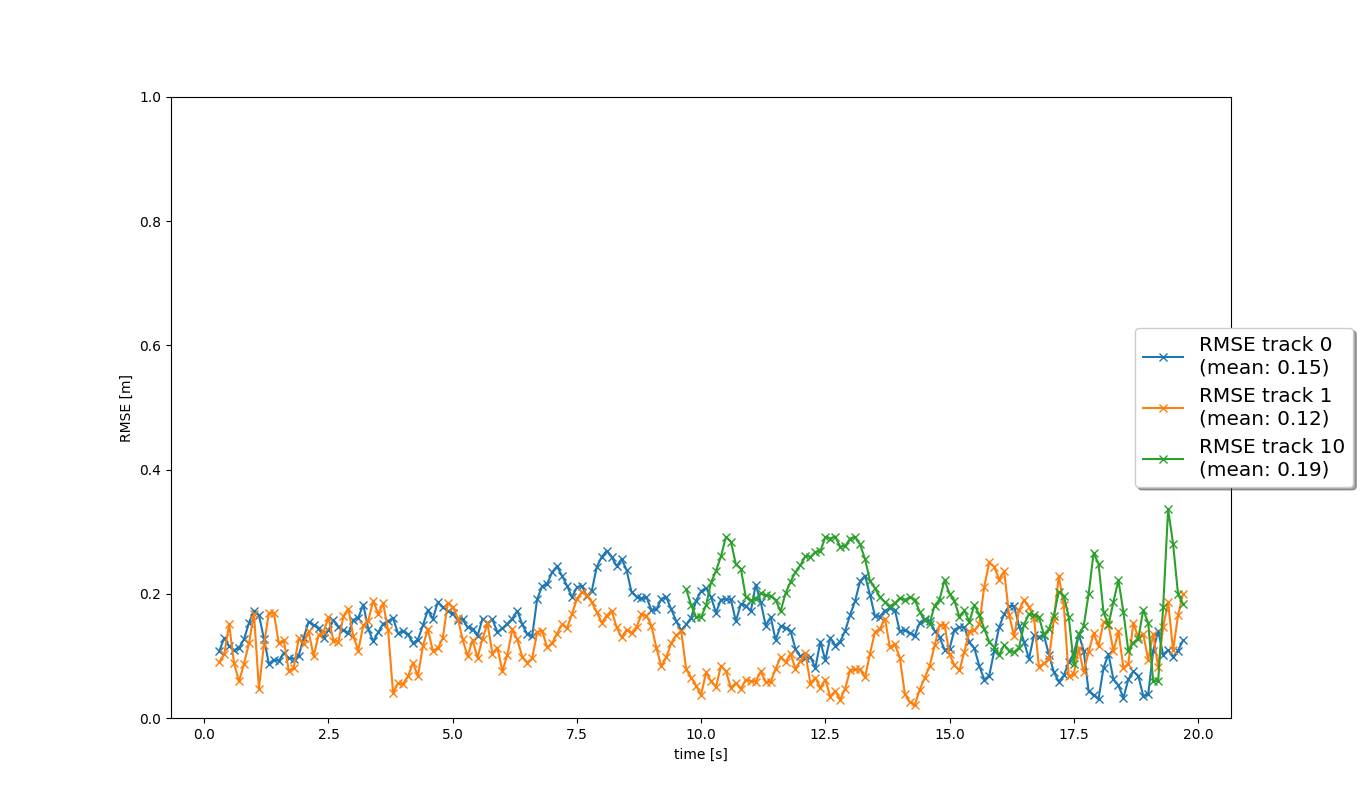
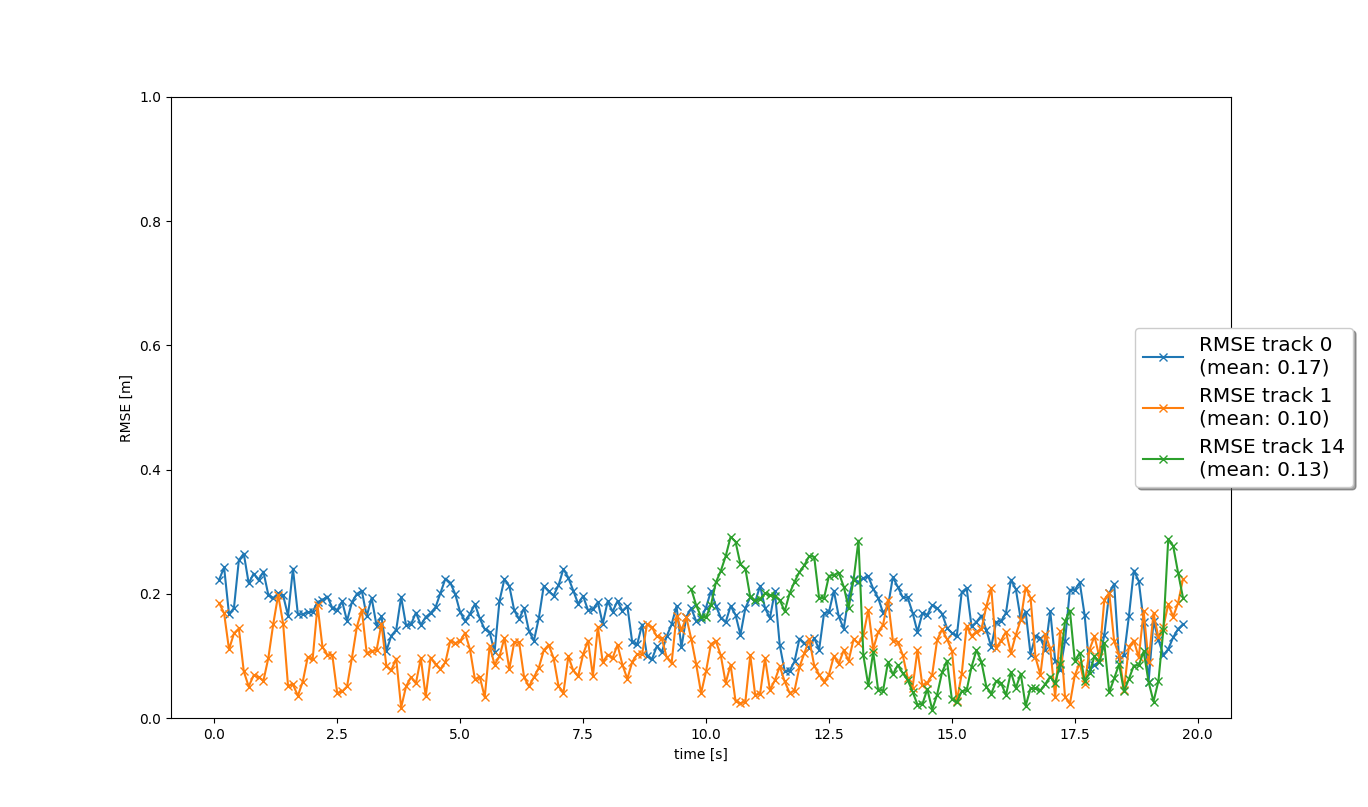
fix measurement.py

diff --git a/student/measurements.py b/student/measurements.py
@@ -2,7 +2,7 @@
 # Project "Track 3D-Objects Over Time"
 # Copyright (C) 2020, Dr. Antje Muntzinger / Dr. Andreas Haja.
 #
-# Purpose of this file : Classes for sensor and measurement 
+# Purpose of this file : Classes for sensor and measurement
 #
 # You should have received a copy of the Udacity license together with this program.
 #
@@ -19,7 +19,7 @@ import sys
 PACKAGE_PARENT = '..'
 SCRIPT_DIR = os.path.dirname(os.path.realpath(os.path.join(os.getcwd(), os.path.expanduser(__file__))))
 sys.path.append(os.path.normpath(os.path.join(SCRIPT_DIR, PACKAGE_PARENT)))
-import misc.params as params 
+import misc.params as params
 
 class Sensor:
     '''Sensor class including measurement matrix'''
@@ -29,7 +29,7 @@ class Sensor:
             self.dim_meas = 3
             self.sens_to_veh = np.matrix(np.identity((4))) # transformation sensor to vehicle coordinates equals identity matrix because lidar detections are already in vehicle coordinates
             self.fov = [-np.pi/2, np.pi/2] # angle of field of view in radians
-        
+
         elif name == 'camera':
             self.dim_meas = 2
             self.sens_to_veh = np.matrix(calib.extrinsic.transform).reshape(4,4) # transformation sensor to vehicle coordinates
@@ -38,45 +38,43 @@ class Sensor:
             self.c_i = calib.intrinsic[2] # principal point i-coordinate
             self.c_j = calib.intrinsic[3] # principal point j-coordinate
             self.fov = [-0.35, 0.35] # angle of field of view in radians, inaccurate boundary region was removed
-            
+
         self.veh_to_sens = np.linalg.inv(self.sens_to_veh) # transformation vehicle to sensor coordinates
-    
+
     def in_fov(self, x):
         # check if an object x can be seen by this sensor
-        ############
-        # TODO Step 4: implement a function that returns True if x lies in the sensor's field of view, 
-        # otherwise False.
-        ############
+        pos_veh = np.ones((4, 1)) # homogeneous coordinates
+        pos_veh[0:3] = x[0:3]
+        pos_sens = self.veh_to_sens * pos_veh
+        if pos_sens[0]> 0:
+            alpha = np.arctan2(pos_sens[1], pos_sens[0])
+            if (self.fov[0] < alpha) and (alpha < self.fov[1]):
+                return True
+            else:
+                return False
 
-        return True
-        
-        ############
-        # END student code
-        ############ 
-             
-    def get_hx(self, x):    
-        # calculate nonlinear measurement expectation value h(x)   
+    def get_hx(self, x):
+        # calculate nonlinear measurement expectation value h(x)
         if self.name == 'lidar':
             pos_veh = np.ones((4, 1)) # homogeneous coordinates
-            pos_veh[0:3] = x[0:3] 
+            pos_veh[0:3] = x[0:3]
             pos_sens = self.veh_to_sens*pos_veh # transform from vehicle to lidar coordinates
             return pos_sens[0:3]
         elif self.name == 'camera':
-            
-            ############
-            # TODO Step 4: implement nonlinear camera measurement function h:
-            # - transform position estimate from vehicle to camera coordinates
-            # - project from camera to image coordinates
-            # - make sure to not divide by zero, raise an error if needed
-            # - return h(x)
-            ############
+            pos_veh = np.ones((4, 1)) # homogeneous coordinates
+            pos_veh[0:3] = x[0:3]
+            pos_sens = self.veh_to_sens*pos_veh # transform from vehicle to sensor coordinates
 
-            pass
-        
-            ############
-            # END student code
-            ############ 
-        
+            # calculate nonlinear measurement expectation value h(x)
+            hx = np.zeros((2,1))
+            # check and print error message if dividing by zero
+            if x[0]==0:
+                raise NameError('Jacobian not defined for x[0]=0!')
+            else:
+                hx[0] = self.c_i - self.f_i*pos_sens[1]/pos_sens[0] # project to image coordinates
+                hx[1] = self.c_j - self.f_j*pos_sens[2]/pos_sens[0]
+                return hx
+
     def get_H(self, x):
         # calculate Jacobian H at current x from h(x)
         H = np.matrix(np.zeros((self.dim_meas, params.dim_state)))
@@ -86,7 +84,7 @@ class Sensor:
             H[0:3, 0:3] = R
         elif self.name == 'camera':
             # check and print error message if dividing by zero
-            if R[0,0]*x[0] + R[0,1]*x[1] + R[0,2]*x[2] + T[0] == 0: 
+            if R[0,0]*x[0] + R[0,1]*x[1] + R[0,2]*x[2] + T[0] == 0:
                 raise NameError('Jacobian not defined for this x!')
             else:
                 H[0,0] = self.f_i * (-R[1,0] / (R[0,0]*x[0] + R[0,1]*x[1] + R[0,2]*x[2] + T[0])
@@ -107,33 +105,24 @@ class Sensor:
                 H[1,2] = self.f_j * (-R[2,2] / (R[0,0]*x[0] + R[0,1]*x[1] + R[0,2]*x[2] + T[0])
                                     + R[0,2] * (R[2,0]*x[0] + R[2,1]*x[1] + R[2,2]*x[2] + T[2]) \
                                         / ((R[0,0]*x[0] + R[0,1]*x[1] + R[0,2]*x[2] + T[0])**2))
-        return H   
-        
+        return H
+
     def generate_measurement(self, num_frame, z, meas_list):
         # generate new measurement from this sensor and add to measurement list
-        ############
-        # TODO Step 4: remove restriction to lidar in order to include camera as well
-        ############
-        
-        if self.name == 'lidar':
-            meas = Measurement(num_frame, z, self)
-            meas_list.append(meas)
+        meas = Measurement(num_frame, z, self)
+        meas_list.append(meas)
         return meas_list
-        
-        ############
-        # END student code
-        ############ 
-        
-        
-################### 
-        
+
+
+###################
+
 class Measurement:
     '''Measurement class including measurement values, covariance, timestamp, sensor'''
     def __init__(self, num_frame, z, sensor):
         # create measurement object
         self.t = (num_frame - 1) * params.dt # time
         self.sensor = sensor # sensor that generated this measurement
-        
+
         if sensor.name == 'lidar':
             sigma_lidar_x = params.sigma_lidar_x # load params
             sigma_lidar_y = params.sigma_lidar_y
@@ -143,21 +132,16 @@ class Measurement:
             self.z[1] = z[1]
             self.z[2] = z[2]
             self.R = np.matrix([[sigma_lidar_x**2, 0, 0], # measurement noise covariance matrix
-                                [0, sigma_lidar_y**2, 0], 
+                                [0, sigma_lidar_y**2, 0],
                                 [0, 0, sigma_lidar_z**2]])
-            
+
             self.width = z[4]
             self.length = z[5]
             self.height = z[3]
             self.yaw = z[6]
         elif sensor.name == 'camera':
-            
-            ############
-            # TODO Step 4: initialize camera measurement including z and R 
-            ############
-
-            pass
-        
-            ############
-            # END student code
-            ############ 
+            self.z = np.zeros((sensor.dim_meas,1)) # measurement vector
+            self.z[0] = z[0]
+            self.z[1] = z[1]
+            self.R = np.matrix([[params.sigma_cam_i**2, 0], # measurement noise covariance matrix
+                                [0, params.sigma_cam_j**2]])
